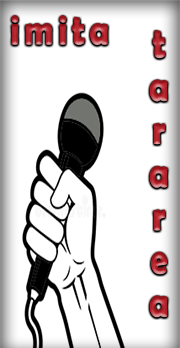
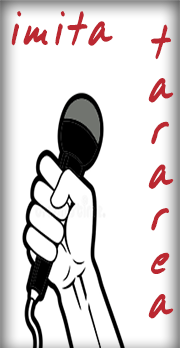
changes

diff --git a/style.css b/style.css
@@ -50,5 +50,5 @@ html, body{
 }
 
 img{
-    padding: 10%;
+    padding: 15%;
 }
